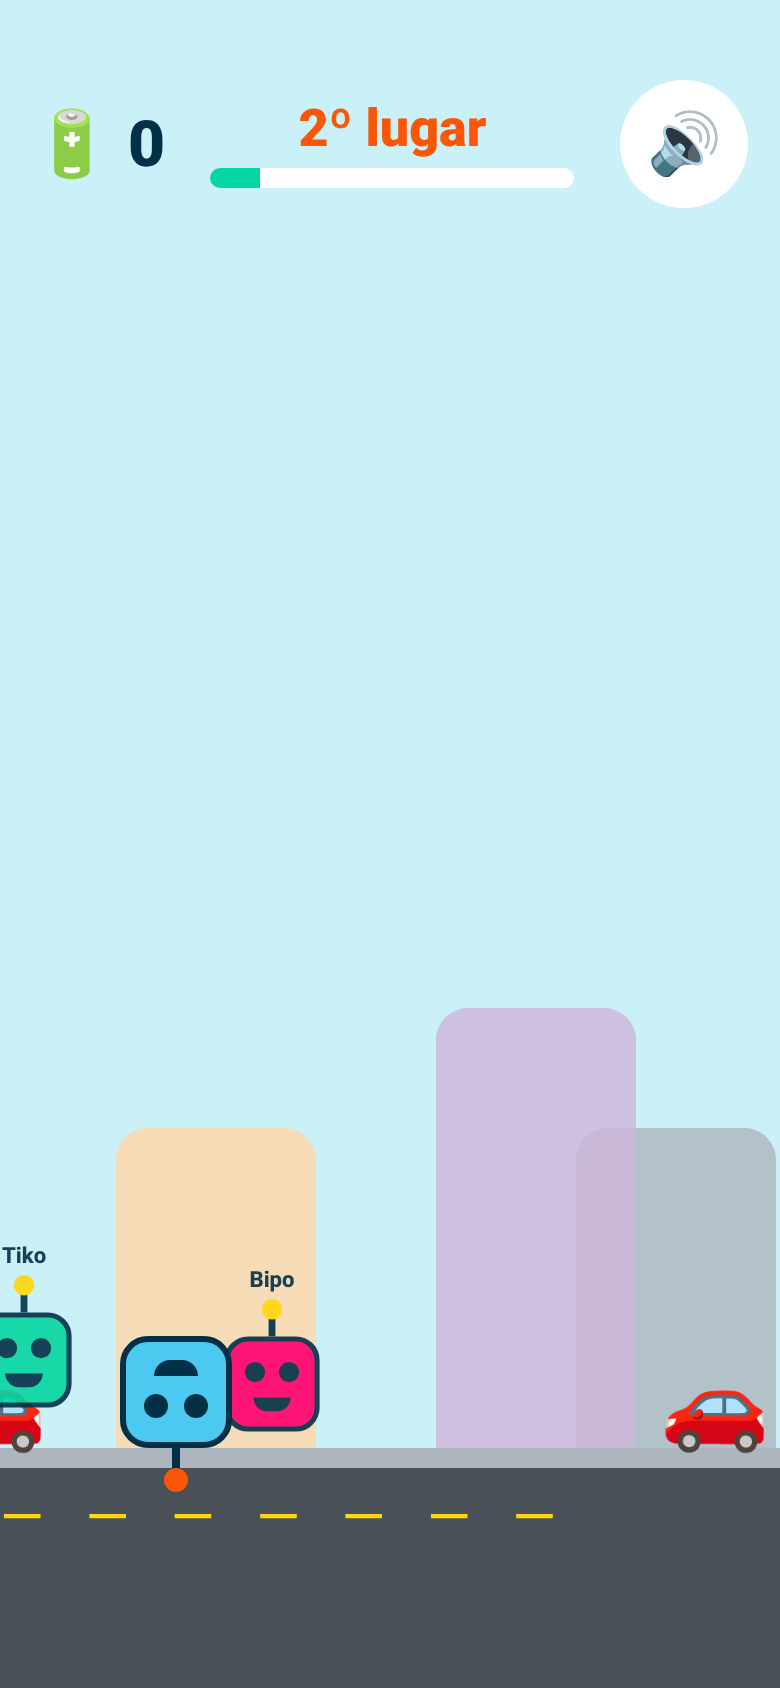
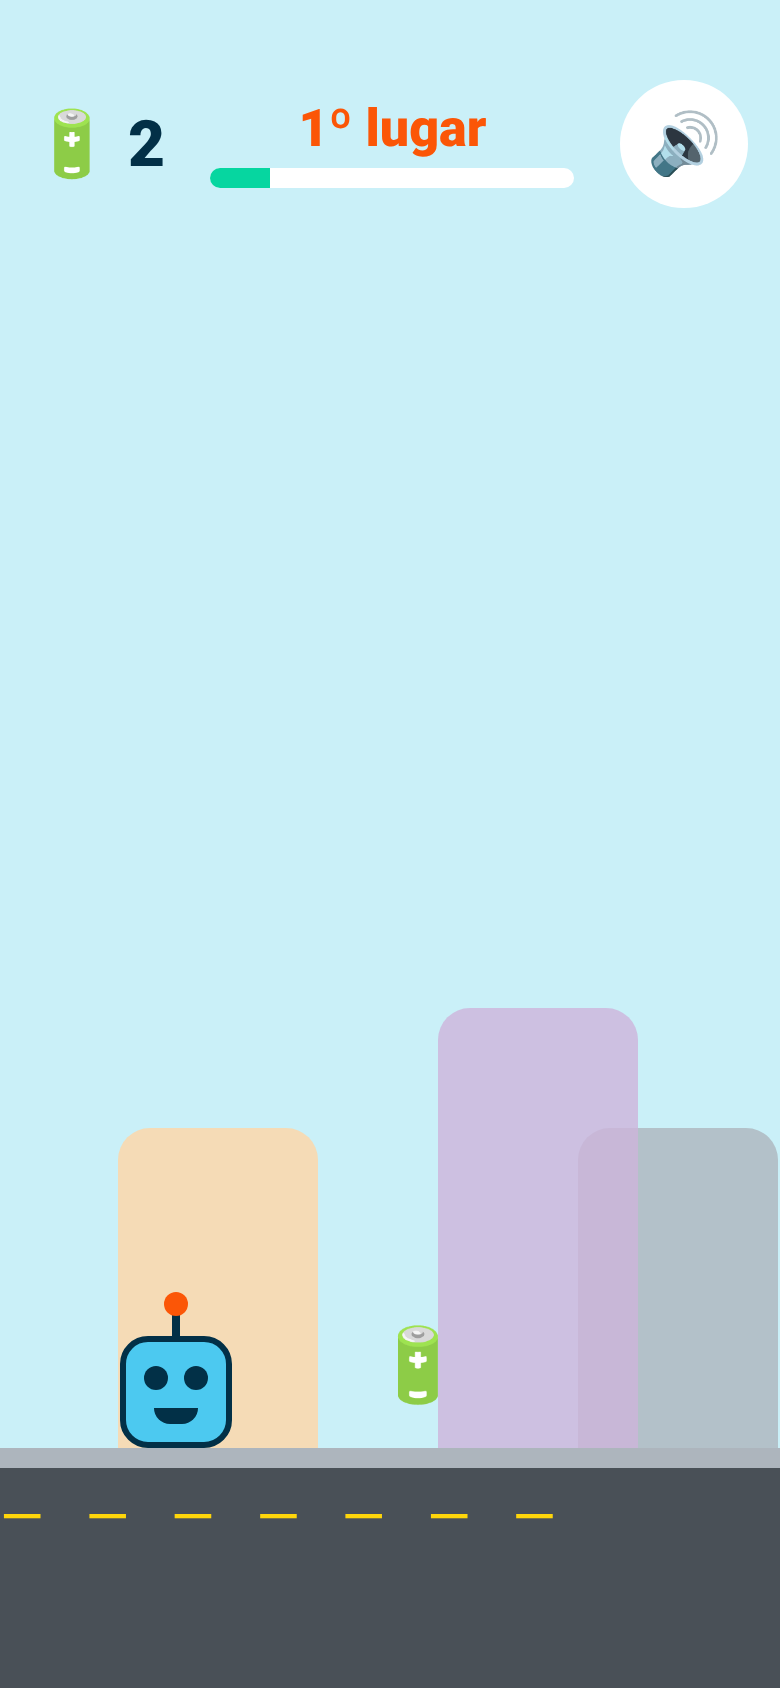
Novos mundos: Vulcão, Matemática, Português, Cores

diff --git a/App.tsx b/App.tsx
@@ -3,16 +3,20 @@ import { Platform, Pressable, StyleSheet, Text, View, useWindowDimensions } from
 import * as Haptics from 'expo-haptics';
 import { createRoom, joinRoom, onlineAvailable, rng, MAX, type Room, type Msg } from './online';
 
-type Kind = 'gear' | 'oil' | 'battery' | 'coat' | 'igloo';
-type Obj = { id: number; x: number; kind: Kind; y: number; taken?: boolean; live?: boolean; dyn?: boolean };
-type WorldId = 'fabrica' | 'gelo' | 'deserto' | 'doces' | 'cidade';
-type World = { emoji: string; name: string; sky: string; deco: string[]; ground: string; top: string; belt: string; a: string; b: string; puddle?: string; roll?: boolean; hills?: boolean; cars?: boolean; ice?: boolean; tip: string };
+type Kind = 'gear' | 'oil' | 'battery' | 'coat' | 'igloo' | 'ans';
+type Obj = { id: number; x: number; kind: Kind; y: number; taken?: boolean; live?: boolean; dyn?: boolean; label?: string; color?: string; ok?: boolean; q?: number };
+type WorldId = 'fabrica' | 'gelo' | 'deserto' | 'doces' | 'cidade' | 'vulcao' | 'matematica' | 'portugues' | 'cores';
+type World = { emoji: string; name: string; sky: string; deco: string[]; ground: string; top: string; belt: string; a: string; b: string; puddle?: string; roll?: boolean; hills?: boolean; cars?: boolean; ice?: boolean; lava?: boolean; quiz?: 'math' | 'pt' | 'cor'; tip: string };
 const WORLDS: Record<WorldId, World> = {
   fabrica: { emoji: '🏭', name: 'Fábrica', sky: '#FFE8A3', deco: ['#8ECAE6', '#A0C4FF', '#BDB2FF', '#9BF6FF'], ground: '#6C757D', top: '#FB8500', belt: '▸ ▸ ▸ ▸ ▸ ▸ ▸ ▸ ▸ ▸ ▸ ▸', a: '⚙', b: '', puddle: '#1D3557', roll: true, tip: 'Pule as engrenagens e o óleo!' },
   gelo: { emoji: '❄', name: 'Gelo', sky: '#DFF6FF', deco: ['#FFFFFF', '#CAF0F8', '#ADE8F4', '#E9F5FF'], ground: '#BDE0FE', top: '#FFFFFF', belt: '❄  ❄  ❄  ❄  ❄  ❄  ❄  ❄', a: '⚪', b: '🧊', roll: true, ice: true, tip: 'Pule bolas de neve e gelo. Na ❄ Tempestade, use a 🧣 roupinha ou entre no iglu!' },
   deserto: { emoji: '🏜', name: 'Deserto', sky: '#FFE5B4', deco: ['#F4A261', '#E9C46A', '#F6BD60', '#E76F51'], ground: '#E9C46A', top: '#F4A261', belt: '', a: '🌵', b: '🪨', hills: true, tip: 'Suba e desça as dunas pulando cactos e pedras!' },
   doces: { emoji: '🍭', name: 'Doces', sky: '#FFE5EC', deco: ['#FFC8DD', '#BDE0FE', '#CDB4DB', '#FFAFCC'], ground: '#CDB4DB', top: '#FF8FAB', belt: '🍬    🍬    🍬    🍬    🍬', a: '🍩', b: '', puddle: '#FF4D8D', roll: true, tip: 'Pule as rosquinhas e a calda grudenta!' },
   cidade: { emoji: '🏙', name: 'Cidade', sky: '#CAF0F8', deco: ['#ADB5BD', '#90E0EF', '#FFD6A5', '#CDB4DB'], ground: '#495057', top: '#ADB5BD', belt: '—   —   —   —   —   —   —', a: '🚗', b: '🚕', cars: true, tip: 'Pule os carrinhos que vêm na rua!' },
+  vulcao: { emoji: '🌋', name: 'Vulcão', sky: '#FFE0C2', deco: ['#D4A373', '#CCD5AE', '#E9EDC9', '#FAEDCD'], ground: '#7F5539', top: '#FF9F1C', belt: '·  ·  ·  ·  ·  ·  ·  ·  ·', a: '', b: '', puddle: '#FF7B00', lava: true, tip: 'O vulcão solta bolinhas de lava que quicam: pule na hora certa!' },
+  matematica: { emoji: '🔢', name: 'Matemática', sky: '#E7F5FF', deco: ['#A5D8FF', '#FFD8A8', '#B2F2BB', '#FFC9C9'], ground: '#4C6EF5', top: '#FFD43B', belt: '1  2  3  4  5  6  7  8  9', a: '➕', b: '📏', roll: true, quiz: 'math', tip: 'Resolva a conta: pule na bolha certa (em cima) ou passe por baixo para turbo!' },
+  portugues: { emoji: '🔤', name: 'Português', sky: '#FFF9DB', deco: ['#FFEC99', '#D0BFFF', '#A5D8FF', '#FFC9C9'], ground: '#AE3EC9', top: '#FFD43B', belt: 'A  E  I  O  U  A  E  I  O', a: '📚', b: '✏', quiz: 'pt', tip: 'Complete a palavra com a letra certa para ganhar turbo!' },
+  cores: { emoji: '🎨', name: 'Cores', sky: '#F8F0FC', deco: ['#FF8787', '#FFD43B', '#69DB7C', '#74C0FC'], ground: '#495057', top: '#F06595', belt: '●  ●  ●  ●  ●  ●  ●  ●', a: '🎨', b: '', puddle: '#F06595', roll: true, quiz: 'cor', tip: 'Pule na bolha da cor pedida para ganhar turbo!' },
 };
 const WORLD_IDS = Object.keys(WORLDS) as WorldId[];
 const hill = (w: World, wx: number) => w.hills ? 55 + 35 * Math.sin(wx / 260) + 15 * Math.sin(wx / 97) : 0;
@@ -27,6 +31,16 @@ function makeTrack(seed: number, w: World) {
   const r = rng(seed); const out: { wx: number; kind: Kind; y: number }[] = [];
   for (let wx = 700; wx < 6600; wx += 230 + r() * 300) { const kind = pickKind(r(), w); out.push({ wx, kind, y: kind === 'battery' ? (r() < 0.5 ? 20 : 130) : 0 }); if (kind === 'igloo') wx += 80; }
   return out;
+}
+const WORDS = ['GATO', 'BOLA', 'CASA', 'PATO', 'SAPO', 'LUA', 'SOL', 'UVA', 'MALA', 'FOCA', 'BOLO', 'DADO', 'PIPA', 'SUCO', 'MESA', 'VACA'];
+const COLS: [string, string][] = [['AZUL', '#339AF0'], ['VERMELHO', '#FA5252'], ['AMARELO', '#FCC419'], ['VERDE', '#40C057'], ['ROXO', '#9775FA'], ['LARANJA', '#FD7E14'], ['ROSA', '#F783AC']];
+// Desafio de quiz (mesmo resultado em todos os celulares, pois vem da semente da corrida)
+function makeQuiz(kind: 'math' | 'pt' | 'cor', seed: number) {
+  const r = rng(seed); const hiOk = r() < 0.5;
+  if (kind === 'math') { const a = 1 + Math.floor(r() * 5), b = 1 + Math.floor(r() * 5); const ok = a + b; let bad = ok + (r() < 0.5 ? -1 : 1) * (1 + Math.floor(r() * 2)); if (bad < 0) bad = ok + 2; return { prompt: `${a} + ${b} = ?`, ok: String(ok), bad: String(bad), hiOk }; }
+  if (kind === 'pt') { const w = WORDS[Math.floor(r() * WORDS.length)]; const idx = [...w].findIndex(c => 'AEIOU'.includes(c)); const ok = w[idx]; const others = 'AEIOU'.replace(ok, ''); const bad = others[Math.floor(r() * others.length)]; return { prompt: `Complete: ${w.slice(0, idx)}_${w.slice(idx + 1)}`, ok, bad, hiOk }; }
+  const a = Math.floor(r() * COLS.length); let b = Math.floor(r() * (COLS.length - 1)); if (b >= a) b++;
+  return { prompt: `Pule no ${COLS[a][0]}!`, ok: COLS[a][1], bad: COLS[b][1], hiOk };
 }
 const stormPlan = (seed: number) => { const r = rng(seed ^ 0x5eed); return { first: 7 + r() * 2, period: 9 + r() * 2 }; };
 type Rival = { name: string; color: string; d: number; v: number; frozen?: number; slow?: number; cd?: number };
@@ -89,7 +103,7 @@ export default function App() {
   const [muted, setMuted] = useState(false);
   const [best, setBest] = useState(0);
   const [, force] = useState(0);
-  const fresh = (race: boolean, seed = Math.floor(Math.random() * 1e9)) => ({ w: worldRef.current, seed, coat: false, frozen: 0, storm: 0, stormAt: stormPlan(seed).first, period: stormPlan(seed).period, y: 0, vy: 0, objs: [] as Obj[], score: 0, speed: 260, dist: 0, next: 1.2, id: 0, t: 0, race, slow: 0, boost: 0, rivals: newRivals().map((r, k) => ({ ...r, cd: 5 + k * 2.5 })), place: 0, projs: [] as Proj[], puddles: [] as Puddle[], cd: 2, online: false, me: 0, ids: [0] as number[], others: {} as Record<number, Other>, track: [] as ReturnType<typeof makeTrack>, myTime: 0, sendT: 0, prepScarf: -1, shelter: 0, prepIgloo: -1, note: '', finT: {} as Record<number, number>, pod: null as null | { order: number[]; gone: number[] } });
+  const fresh = (race: boolean, seed = Math.floor(Math.random() * 1e9)) => ({ w: worldRef.current, seed, coat: false, frozen: 0, storm: 0, stormAt: stormPlan(seed).first, period: stormPlan(seed).period, y: 0, vy: 0, objs: [] as Obj[], score: 0, speed: 260, dist: 0, next: 1.2, id: 0, t: 0, race, slow: 0, boost: 0, rivals: newRivals().map((r, k) => ({ ...r, cd: 5 + k * 2.5 })), place: 0, projs: [] as Proj[], puddles: [] as Puddle[], cd: 2, online: false, me: 0, ids: [0] as number[], others: {} as Record<number, Other>, track: [] as ReturnType<typeof makeTrack>, myTime: 0, sendT: 0, quizAt: 3.5, quizN: 0, quiz: '', quizRes: '', prepScarf: -1, shelter: 0, prepIgloo: -1, note: '', finT: {} as Record<number, number>, pod: null as null | { order: number[]; gone: number[] } });
   // Single source of truth for the online podium: the host (or, if the host left, each phone locally) ranks by race time, ties by player number.
   const rankFrom = (s: ReturnType<typeof fresh>) => ({ order: Object.entries(s.finT).map(([i, t]) => [Number(i), t] as const).sort((a, b) => a[1] - b[1] || a[0] - b[0]).map(x => x[0]), gone: Object.entries(s.others).filter(([i, o]) => o.gone && s.finT[Number(i)] === undefined).map(([i]) => Number(i)) });
   const publish = () => { const s = g.current; if (!s.online) return; const isHost = roomRef.current?.isHost; if (!isHost && roomRef.current) return; s.pod = rankFrom(s); if (isHost) roomRef.current?.send({ t: 'podium', order: s.pod.order, gone: s.pod.gone }); force(n => n + 1); };
@@ -178,6 +192,13 @@ export default function App() {
         if (inIgloo) { s.shelter = 1.6; sfx(700, 0.2, 'triangle'); } else if (s.coat) { s.coat = false; sfx(600, 0.2, 'triangle'); } else { s.frozen = 1.5; s.slow = 0; sfx(300, 0.4, 'sine'); buzz(80); }
         for (const r of s.rivals) r.frozen = Math.random() < 0.55 ? 1.5 : 0;
       }
+      if (W.quiz && s.t >= s.quizAt) {
+        const q = makeQuiz(W.quiz, s.seed + s.quizN * 7919); s.quizN++; s.quizAt += 6.5;
+        s.quiz = q.prompt; s.quizRes = '';
+        const x = width + 40; const mk = (ok: boolean, hi: boolean) => ({ id: 200000 + s.id++, x, kind: 'ans' as Kind, y: hi ? 150 : 8, dyn: true, ok, q: s.quizN, label: W.quiz === 'cor' ? '' : ok ? q.ok : q.bad, color: W.quiz === 'cor' ? (ok ? q.ok : q.bad) : '#FFFFFF' });
+        s.objs = s.objs.filter(o => o.x < x - 140 || o.x > x + 140 || o.kind === 'battery');
+        s.objs.push(mk(true, q.hiOk), mk(false, !q.hiOk));
+      }
       if (W.ice && mode === 'play') { // antes de cada tempestade: sempre uma roupinha e um iglu no caminho
         const left = s.stormAt - s.t;
         if (left < 4.5 && s.prepScarf !== s.stormAt) { s.prepScarf = s.stormAt; s.objs.push({ id: 100000 + s.id++, x: width + 30, kind: 'coat', y: 0, dyn: true }); }
@@ -230,17 +251,26 @@ export default function App() {
         const overlapX = o.x < rx + ROBOT - 10 && o.x + w > rx + 10;
         if (!overlapX || o.taken) continue;
         if (o.kind === 'igloo') continue;
+        if (o.kind === 'ans') { // decide pela altura do robô ao chegar na bolha
+          const hi = s.y > 70; if ((o.y > 70) !== hi) continue;
+          for (const z of s.objs) if (z.kind === 'ans' && z.q === o.q) z.taken = true;
+          if (o.ok) { s.boost = 2.2; s.score += 2; s.quizRes = 'Acertou! Turbo! 🚀'; sfx(1046, 0.2, 'triangle'); setTimeout(() => sfx(1318, 0.25, 'triangle'), 150); }
+          else { s.quizRes = 'Ops! Na próxima você acerta 😊'; sfx(330, 0.2, 'sine'); }
+          continue;
+        }
+        if (W.lava && o.kind === 'gear') { const by = Math.abs(Math.sin(s.t * 3.2 + o.id)) * 70; if (!(s.y < by + 32 && s.y + ROBOT > by + 4)) continue; }
         if (o.kind === 'coat') { if (s.y < 60) { o.taken = true; s.coat = true; sfx(1000, 0.15, 'triangle'); } continue; }
         if (o.kind === 'battery') {
           if (s.y + ROBOT > o.y && s.y < o.y + 40) { o.taken = true; s.score++; s.boost = 1.2; sfx(880, 0.1, 'triangle'); }
-        } else if (s.y < (o.kind === 'oil' && !W.cars ? 10 : 34)) {
+        } else if (W.lava && o.kind === 'gear' || s.y < (o.kind === 'oil' && !W.cars ? 10 : 34)) {
           sfx(200, 0.3, 'sine'); buzz(120);
           if (s.race) { o.taken = true; s.slow = 1; continue; }
           const b = Math.max(store.get(), s.score); store.set(b); setBest(b);
           setMode('over'); force(n => n + 1); return;
         }
       }
-      s.objs = s.objs.filter(o => o.x > -120 && !((o.kind === 'battery' || o.kind === 'coat') && o.taken));
+      s.objs = s.objs.filter(o => o.x > -120 && !((o.kind === 'battery' || o.kind === 'coat' || o.kind === 'ans') && o.taken));
+      if (s.quiz && !s.objs.some(o => o.kind === 'ans')) s.quiz = '';
       if (s.race && s.dist > FINISH - 400) s.next = 99;
       force(n => n + 1);
       raf = requestAnimationFrame(loop);
@@ -295,6 +325,11 @@ export default function App() {
     <View style={[st.root, { backgroundColor: W.sky }]}>
       <Pressable style={StyleSheet.absoluteFill} onPressIn={tap} accessibilityLabel="Toque para o Nodex pular">
         <View style={[st.sky, { backgroundColor: W.sky }]}>
+          {W.lava && (<>
+            <View style={[st.volcano, { left: width - 260, bottom: GROUND }]} />
+            <View style={[st.crater, { left: width - 160, bottom: GROUND + 210 }]} />
+            {[0, 1, 2].map(k => { const ph = (s.t * 0.7 + k / 3) % 1; return <View key={'lb' + k} style={[st.lava, { width: 22, height: 22, left: width - 140 + (k - 1) * 60 * ph, bottom: GROUND + 220 + Math.sin(ph * Math.PI) * 120 }]} />; })}
+          </>)}
           {[0, 1, 2, 3].map(i => (
             <View key={i} style={[st.machine, { left: ((i * 160 - s.t * 40) % (width + 160) + width + 160) % (width + 160) - 120, height: (W.cars ? 160 : 90) + (i % 2) * 60 + (W.hills ? 60 : 0), backgroundColor: W.deco[i], borderRadius: W.ice || W.hills ? 60 : undefined }]} />
           ))}
@@ -307,6 +342,10 @@ export default function App() {
           {s.objs.map(o => { if (o.x > width + 100) return null; const b = gy(s.dist + o.x - 60); return o.kind === 'oil' ? (
             W.puddle ? <View key={o.id} style={[st.oil, { left: o.x, bottom: b - 6, backgroundColor: W.puddle }]} />
               : <Text key={o.id} style={[st.gear, { left: o.x, bottom: b - 4, fontSize: W.cars ? 44 : 30 }]}>{W.b}</Text>
+          ) : o.kind === 'gear' && W.lava ? (
+            <View key={o.id} style={[st.lava, { left: o.x, bottom: b + Math.abs(Math.sin(s.t * 3.2 + o.id)) * 70 }]}><View style={st.lavaEye} /><View style={st.lavaEye} /></View>
+          ) : o.kind === 'ans' ? (
+            <View key={o.id} style={[st.bubble, { left: o.x - 4, bottom: b + o.y, backgroundColor: o.color }]}><Text style={st.bubbleText}>{o.label}</Text></View>
           ) : o.kind === 'gear' ? (
             <Text key={o.id} style={[st.gear, { left: o.x, bottom: b - 4, fontSize: W.cars ? 44 : 40, transform: W.roll ? [{ rotate: `-${gearRot}` }] : [] }]}>{W.a}</Text>
           ) : o.kind === 'coat' ? (
@@ -340,6 +379,7 @@ export default function App() {
       </Pressable>
 
       {W.ice && s.storm > 0 && mode === 'play' && <View style={st.snow} pointerEvents="none"><Text style={st.snowText}>❄  ❄  ❄{'\n'}  ❄  ❄  ❄{'\n'}❄  ❄  ❄</Text></View>}
+      {!!W.quiz && mode === 'play' && !!(s.quiz || s.quizRes) && <View style={st.quizBox} pointerEvents="none">{!!s.quiz && <Text style={st.quizText}>{s.quiz}</Text>}{!!s.quizRes && <Text style={st.quizRes}>{s.quizRes}</Text>}</View>}
       {warn && <Text style={st.warn} pointerEvents="none">❄ Tempestade! {s.coat ? '🧣 Você está protegido!' : 'Pegue a 🧣 ou entre no iglu!'}</Text>}
       <View style={st.hud} pointerEvents="box-none">
         <Text style={st.score}>🔋 {s.score}</Text>
@@ -513,5 +553,14 @@ const st = StyleSheet.create({
   pbtn: { width: 84, height: 84, borderRadius: 42, backgroundColor: '#FB5607', alignItems: 'center', justifyContent: 'center', marginLeft: 10, borderWidth: 4, borderColor: '#fff' },
   pbtnText: { fontSize: 32, color: '#fff', fontWeight: '900' },
   plabel: { fontSize: 11, color: '#fff', fontWeight: '800' },
+  lava: { position: 'absolute', width: 40, height: 36, borderRadius: 20, backgroundColor: '#FF7B00', borderWidth: 3, borderColor: '#FFD166', flexDirection: 'row', justifyContent: 'space-evenly', paddingTop: 10 },
+  lavaEye: { width: 6, height: 6, borderRadius: 3, backgroundColor: '#5A189A' },
+  volcano: { position: 'absolute', width: 0, height: 0, borderLeftWidth: 130, borderRightWidth: 130, borderBottomWidth: 230, borderLeftColor: 'transparent', borderRightColor: 'transparent', borderBottomColor: '#9C6644' },
+  crater: { position: 'absolute', width: 60, height: 22, borderRadius: 11, backgroundColor: '#FF9F1C' },
+  bubble: { position: 'absolute', width: 52, height: 52, borderRadius: 26, borderWidth: 4, borderColor: '#023047', alignItems: 'center', justifyContent: 'center' },
+  bubbleText: { fontSize: 24, fontWeight: '900', color: '#023047' },
+  quizBox: { position: 'absolute', top: 130, left: 20, right: 20, alignItems: 'center', backgroundColor: '#FFFFFFEE', borderRadius: 20, padding: 12 },
+  quizText: { fontSize: 32, fontWeight: '900', color: '#023047' },
+  quizRes: { fontSize: 20, fontWeight: '800', color: '#2B8A3E', marginTop: 4 },
   btnText: { fontSize: 28, fontWeight: '900', color: '#fff' },
 });
